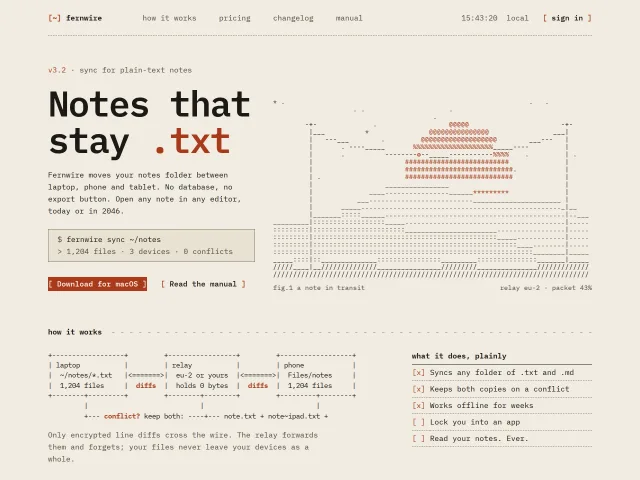
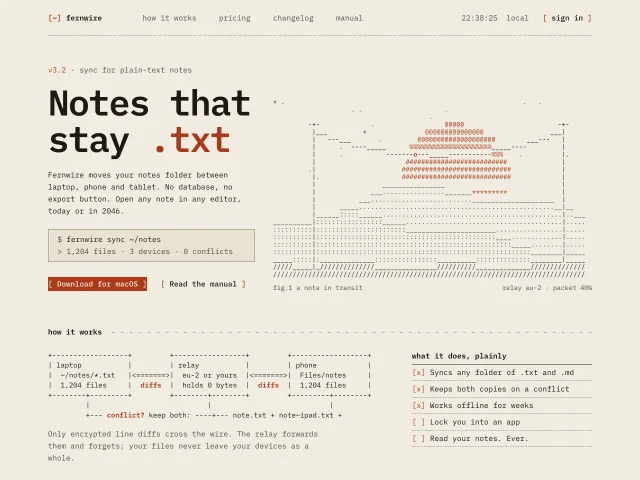
Fix the three pieces CI's Linux gate still failed. The ASCII homepage measured its character cell once, before the web font arrived, so on Linux's wider mono glyphs the sunset ran to 471px on a phone; it now measures again when fonts load and on resize, with a column of slack. The cozy farm's slot n

diff --git a/src/demos/ascii-art-homepage.html b/src/demos/ascii-art-homepage.html
@@ -215,13 +215,16 @@ h1 em{font-style:normal;color:var(--rust)}
 
   // generative art
   const art=$('art');
-  const probe=document.createElement('span');probe.textContent='0000000000';probe.style.visibility='hidden';art.appendChild(probe);
-  let cw=probe.getBoundingClientRect().width/10||7.8;probe.remove();
+  // Measure a cell in the face actually showing. The web font can arrive after the first draw, and some platforms
+  // draw mono glyphs wider, so measure again when fonts load and on resize.
+  let cw=7.8;
+  const measure=()=>{const probe=document.createElement('span');probe.textContent='0000000000';probe.style.visibility='hidden';art.appendChild(probe);cw=probe.getBoundingClientRect().width/10||cw;probe.remove();};
+  measure();
   const hash=(x,y)=>{let h=x*374761393+y*668265263;h=(h^(h>>>13))*1274126177;return ((h^(h>>>16))>>>0)/4294967296;};
   const ramp='@%#*+=-:. ';
   let cols=0,rows=0,ph=0;
   function draw(){
-    cols=Math.max(30,Math.floor(art.clientWidth/cw));rows=innerWidth<640?18:24;
+    cols=Math.max(30,Math.floor(art.clientWidth/cw)-1);rows=innerWidth<640?18:24;
     const lh=parseFloat(getComputedStyle(art).lineHeight)||15,asp=cw/lh;
     const cx=cols*.58,cy=rows*.42,R=rows*.3;
     const ridge=[(u)=>rows*.6+3.2*Math.sin(u*4.6+2.2)+1.1*Math.sin(u*12),(u)=>rows*.74+2.6*Math.sin(u*3.3+4.1)+.8*Math.sin(u*15+1),(u)=>rows*.85+1.4*Math.sin(u*2.4+.3)+.6*Math.sin(u*19)];
@@ -246,7 +249,8 @@ h1 em{font-style:normal;color:var(--rust)}
     art.innerHTML=html;
     $('pct').textContent='relay eu-2 · packet '+String(Math.round(ph*100)).padStart(3,' ')+'%';
   }
-  draw();addEventListener('resize',draw);
+  draw();addEventListener('resize',()=>{measure();draw();});
+  if(document.fonts&&document.fonts.ready)document.fonts.ready.then(()=>{measure();draw();});
   if(!reduce)setInterval(()=>{ph=(ph+.025)%1;draw();},120);
 })();
 </script>

diff --git a/src/demos/game-cozy-farm-hud.html b/src/demos/game-cozy-farm-hud.html
@@ -68,8 +68,8 @@ li.done .t{text-decoration:line-through;text-decoration-thickness:2px;color:var(
 .slot{position:relative;width:60px;height:60px;border-radius:14px;border:2px solid #6a4429;background:var(--slot);box-shadow:inset 0 -4px 0 #e5cfa5;display:grid;place-items:center;cursor:pointer;padding:0;color:var(--ink);transition:transform 220ms var(--spring),background 160ms}
 .slot:hover{background:#fff4dc}
 .slot svg{width:30px;height:30px;fill:none;stroke:currentColor;stroke-width:1.8;stroke-linecap:round;stroke-linejoin:round}
-.slot .k{position:absolute;left:6px;top:2px;font:700 12px/1.3 var(--font);color:var(--ink-2)}
-.slot .c{position:absolute;right:6px;bottom:2px;font:800 13px/1.3 var(--font)}
+.slot .k{position:absolute;left:4px;top:2px;z-index:1;padding:0 2px;border-radius:5px;background:inherit;font:700 12px/1.3 var(--font);color:var(--ink-2)}
+.slot .c{position:absolute;right:4px;bottom:2px;z-index:1;padding:0 2px;border-radius:5px;background:inherit;font:800 13px/1.3 var(--font)}
 .slot[aria-pressed=true]{transform:translateY(-8px);background:#fffaf0;border-color:#fff8ea;box-shadow:0 0 0 3px var(--ink),inset 0 -4px 0 #ecdab6}
 .slot.empty{background:#d8bd92;box-shadow:inset 0 3px 0 rgba(94,60,36,.2);cursor:default}
 .hint{position:absolute;left:50%;bottom:150px;transform:translate(-50%,8px);background:var(--paper);border-radius:14px;padding:8px 16px 6px;font:700 15px/1.3 var(--font);box-shadow:0 8px 18px rgba(94,60,36,.2);opacity:0;transition:opacity 200ms var(--ease),transform 300ms var(--spring);pointer-events:none;white-space:nowrap}

diff --git a/src/demos/hero-liquid-glass-layers.html b/src/demos/hero-liquid-glass-layers.html
@@ -80,7 +80,8 @@ h1{font-weight:600;font-size:76px;line-height:.96;letter-spacing:-.035em;margin:
   .stage{height:auto;min-height:100%;padding:96px 16px 24px;display:flex;flex-direction:column;gap:16px}
   nav ul,.sign{display:none}
   nav.glass{top:22px;position:absolute}.hero,.card,.tag{position:relative;left:auto;right:auto;top:auto;bottom:auto;width:100%}
-  .card{order:2;background:var(--frost-solid)}.tag{order:3;align-self:flex-start}
+  /* On phones the card is solid, so it needs no blur. A blurred layer also composites differently across renderers. */
+  .card{order:2;background:var(--frost-solid);backdrop-filter:none;-webkit-backdrop-filter:none}.tag{order:3;align-self:flex-start}
   .hero{margin-top:150px;padding:26px 22px 24px}
   h1{font-size:clamp(40px,11vw,64px)}
   .lede{font-size:16px}

diff --git a/skills/design-lounge/library/briefs/ascii-art-homepage.md b/skills/design-lounge/library/briefs/ascii-art-homepage.md
@@ -179,6 +179,8 @@ Set `font-variant-ligatures: none` on `body`. Plex Mono ligates nothing by defau
 
 ## Implementation notes
 
+- Measure the character cell in the face that is actually showing, and measure again on `document.fonts.ready` and on resize. The web font can arrive after the first draw, and some platforms (Linux) draw mono glyphs wider, so a column count taken once at start can run off a 390px screen. Keep one column of slack.
+
 **Measure the character cell, then generate to fit.** Never hard-code columns; fonts differ by a fraction of a pixel and the right edge ragged-breaks.
 
 ```js

diff --git a/src/content/pieces/ascii-art-homepage.md b/src/content/pieces/ascii-art-homepage.md
@@ -188,6 +188,8 @@ Set `font-variant-ligatures: none` on `body`. Plex Mono ligates nothing by defau
 
 ## Implementation notes
 
+- Measure the character cell in the face that is actually showing, and measure again on `document.fonts.ready` and on resize. The web font can arrive after the first draw, and some platforms (Linux) draw mono glyphs wider, so a column count taken once at start can run off a 390px screen. Keep one column of slack.
+
 **Measure the character cell, then generate to fit.** Never hard-code columns; fonts differ by a fraction of a pixel and the right edge ragged-breaks.
 
 ```js
